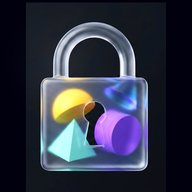
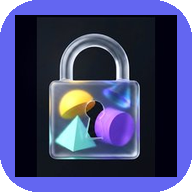
BETA 253

diff --git a/index.html b/index.html
@@ -2017,7 +2017,7 @@ function cardsSearch(q) {
   </div>
   <h1 class="auth-title">HomeBull</h1>
   <p class="auth-sub">Il tuo vault personale, sempre cifrato</p>
-  <div style="font-size:10px;color:rgba(255,255,255,0.25);margin-top:-8px;margin-bottom:4px;letter-spacing:0.05em;">BETA252</div>
+  <div style="font-size:10px;color:rgba(255,255,255,0.25);margin-top:-8px;margin-bottom:4px;letter-spacing:0.05em;">BETA253</div>
   <div class="auth-card">
 
     <!-- STEP 1: EMAIL -->
@@ -2119,7 +2119,7 @@ function cardsSearch(q) {
         <div class="sidebar-logo-text">HomeBull</div>
         <div>
           <div class="sidebar-logo-ver">Pro v13</div>
-          <div class="sidebar-logo-ver" style="color:var(--accent);font-size:9px;">BETA252</div>
+          <div class="sidebar-logo-ver" style="color:var(--accent);font-size:9px;">BETA253</div>
         </div>
       </div>
     </div>
@@ -2243,7 +2243,7 @@ function cardsSearch(q) {
         </div>
         <div style="display:inline-flex;align-items:center;gap:6px;background:var(--surface);border:1px solid var(--border);border-radius:99px;padding:3px 10px;margin:10px 0 18px;">
           <div style="width:6px;height:6px;border-radius:50%;background:#10b981;"></div>
-          <span style="font-size:11px;font-weight:700;color:var(--text3);letter-spacing:0.04em;" id="home-version-badge">BETA252</span>
+          <span style="font-size:11px;font-weight:700;color:var(--text3);letter-spacing:0.04em;" id="home-version-badge">BETA253</span>
         </div>
 
         <!-- Ricerca globale -->
@@ -3248,7 +3248,7 @@ function cardsSearch(q) {
 
 // ── State ──────────────────────────────────────────────────
 const HB = {
-  version: 'BETA252',
+  version: 'BETA253',
   currentTab: 'home',
   authState: 'email',   // email | otp | pin-setup | pin-login
   user: null,           // { email, uid }
@@ -9951,7 +9951,7 @@ function calShowAddEvent() {
           <div style="background:var(--surface);border:1px solid var(--border);border-radius:16px;padding:20px;text-align:center;">
             <div style="width:64px;height:64px;border-radius:20px;background:var(--accent);display:flex;align-items:center;justify-content:center;font-size:32px;margin:0 auto 12px;">🏠</div>
             <div style="font-size:18px;font-weight:800;margin-bottom:4px;">HomeBull</div>
-            <div style="font-size:13px;color:var(--text3);">BETA252</div>
+            <div style="font-size:13px;color:var(--text3);">BETA253</div>
           </div>
           <div style="background:var(--surface);border:1px solid var(--border);border-radius:16px;padding:16px;">
             <div style="font-size:13px;font-weight:800;margin-bottom:10px;">🗺 Roadmap</div>

diff --git a/sw.js b/sw.js
@@ -1,4 +1,4 @@
-const CACHE = 'hb13-beta252';
+const CACHE = 'hb13-beta253';
 
 self.addEventListener('install', e => {
   e.waitUntil(